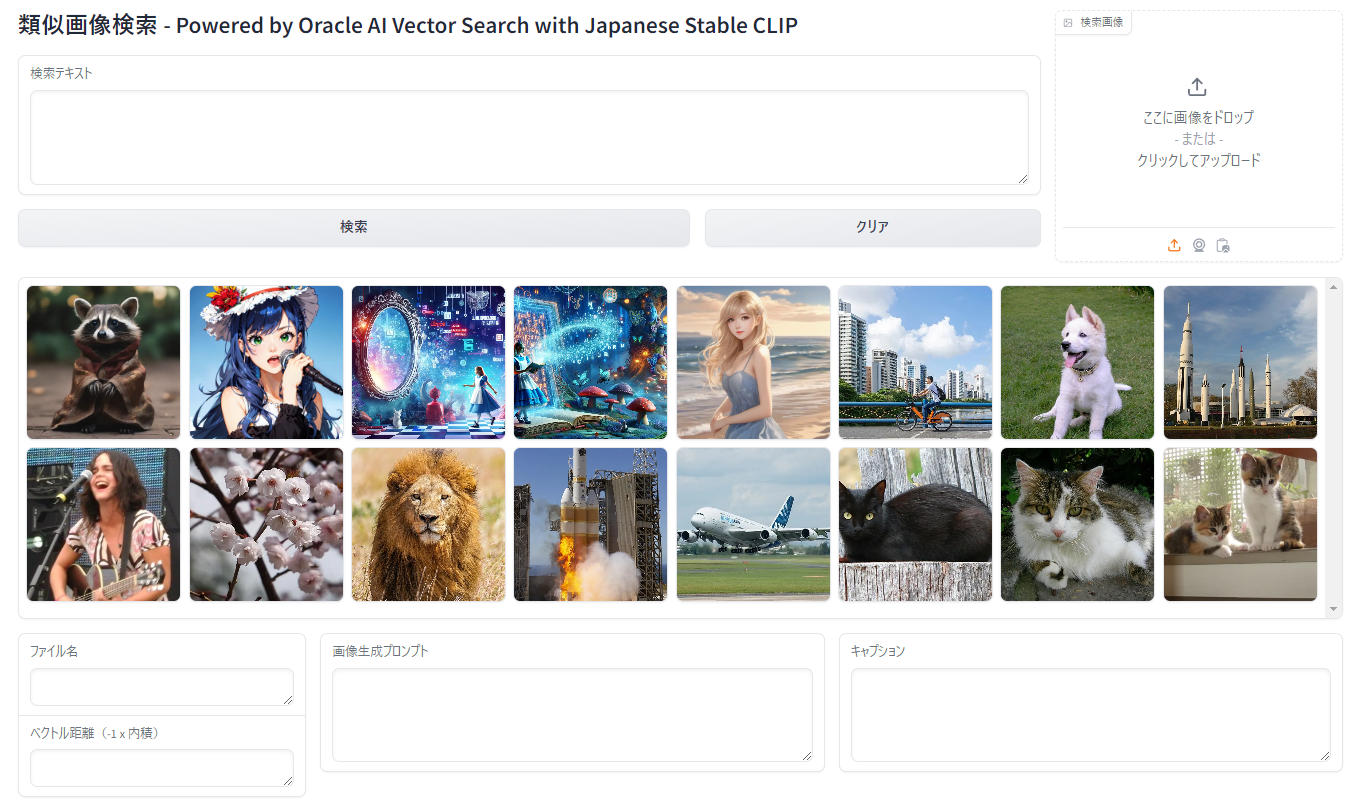
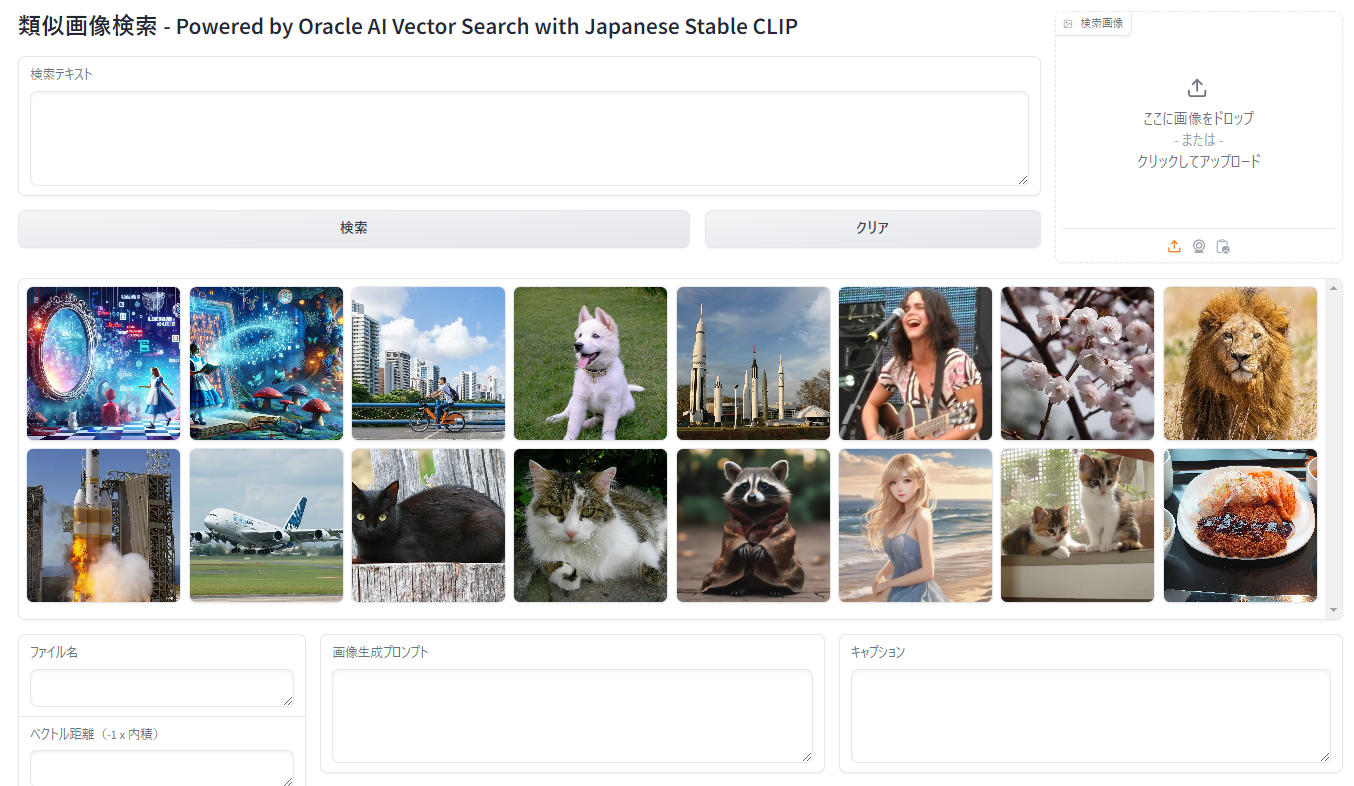
update README.md

diff --git a/README.md b/README.md
@@ -20,11 +20,14 @@
 - PNGファイルのテキストチャンク情報の抽出と保存
 - GPU の無い環境でも動作
 
-## 動作条件
+## 前提条件
 
 - Python 3.10以上
 - Oracle Database 23ai インスタンス
-- CPU上でも動作可能
+- CPU上でも動作可能（GPUがあればなお良い）
+- Hugging Face のアカウントがあること（[Hugging Face アカウント作成ページ](https://huggingface.co/join) で無料で登録することができます）
+- Hugging Face の User Access Token を取得していること（[Hugging Face User Access Token 作成ページ](https://huggingface.co/settings/tokens) で無料で取得できます。"Type" は、"READ"）
+- 動作は  OCI の VM.Standard3.Flex Compute Shape + Oracle Linux 8（CPUのみ） とローカルの Windows 11(CPUのみの場合とGPU利用の場合の両方) で確認しています。
 
 ## データベース環境のセットアップ
 1. データベースのインストール
@@ -110,36 +113,102 @@ JOIN CURRENT_EMBEDDING_MODEL cem ON ie.model_id = cem.model_id;
 
 ## 本アプリのインストール
 
-1. リポジトリをクローンします：
+データベースインスタンスが稼働しているサーバー（OCIコンピュートインスタンスなど）のローカルにインストールする場合以外は、本アプリケーションがネットワーク越しに Oracle Database のリスナーへアクセスできるよう Firewall 等の設定を行ってください（補足予定）。
 
-```
-git clone https://github.com/kutsushitaneko/image-similarity-search.git
-cd image-similarity-search
-```
+1. リポジトリをクローン：
 
-2. 仮想環境を作成し、アクティベートします：
+    git がインストールされていない場合は、以下のコマンドでインストールします。
+    ```
+    sudo dnf install git -y
+    ```
 
-```
-python -m venv .venv
-source .venv/bin/activate  # Windowsの場合: .venv\Scripts\activate
-```
+    リポジトリをクローンします。
+    ```
+    git clone https://github.com/kutsushitaneko/image-similarity-search.git
+    cd image-similarity-search
+    ```
+
+2. Python のバージョン確認  
+
+    次のコマンドで Python のバージョンを確認します。3.10 以上であることを確認してください。
+
+    ```
+    python --version
+    ```
+    3.10 よりも前のバージョンである場合は新しいバージョンをインストールします。以下は、Oracle Linux 8 に Python 3.11 をインストールする例です。
+
+    ```
+    sudo dnf update -y
+    sudo dnf install -y oracle-epel-release-el8
+    sudo dnf config-manager --set-enabled ol8_codeready_builder
+    sudo dnf install -y python3.11
+    python --version
+    ```
+
+2. （オプション）仮想環境の作成、アクティベート
+
+    複数バージョンの Python がインストールされているサーバーで Python 3.11 の仮想環境を作成する例
+    ```
+    python3.11 -m venv .venv
+    source .venv/bin/activate  # Windowsの場合: .venv\Scripts\activate
+    ```
 
 3. 必要なパッケージをインストールします：
 
-```
-pip install -r requirements.txt
-```
+    ```
+    pip install --upgrade pip
+    pip install -r requirements.txt
+    ```
 
 4. `.env`ファイルを作成し、以下の環境変数を設定します：
 
-your_username と your_password は、1-1 もしくは 1-2 で作成したデータベースにログインするためのユーザー名とパスワードです。
-your_database_dsn は、1-1 または 1-2 で設定したデータベースの接続情報です。
+    your_username と your_password は、1-1 もしくは 1-2 で作成したデータベースにログインするためのユーザー名とパスワードです。
+    your_database_dsn は、1-1 または 1-2 で設定したデータベースの接続情報です。
 
-```
-DB_USER=your_username
-DB_PASSWORD=your_password
-DB_DSN=your_database_dsn
-```
+    ```
+    DB_USER=your_username
+    DB_PASSWORD=your_password
+    DB_DSN=your_database_dsn
+    ```
+
+5. Hugging Face へログイン
+
+    Japanese Stable CLIP のモデルを使用するために、Hugging Face へログインします。
+
+    ```
+    huggingface-cli login
+    ```
+
+    Hugging Face のバナーが表示されてトークン（User Access Token）の入力を促されます。
+
+    ```
+    $ huggingface-cli login
+
+    _|    _|  _|    _|    _|_|_|    _|_|_|  _|_|_|  _|      _|    _|_|_|      _|_|_|_|    _|_|      _|_|_|  _|_|_|_|
+    _|    _|  _|    _|  _|        _|          _|    _|_|    _|  _|            _|        _|    _|  _|        _|
+    _|_|_|_|  _|    _|  _|  _|_|  _|  _|_|    _|    _|  _|  _|  _|  _|_|      _|_|_|    _|_|_|_|  _|        _|_|_|
+    _|    _|  _|    _|  _|    _|  _|    _|    _|    _|    _|_|  _|    _|      _|        _|    _|  _|        _|
+    _|    _|    _|_|      _|_|_|    _|_|_|  _|_|_|  _|      _|    _|_|_|      _|        _|    _|    _|_|_|  _|_|_|_|
+
+    To login, `huggingface_hub` requires a token generated from https://huggingface.co/settings/tokens .
+    Enter your token (input will not be visible):
+    ```
+
+    ここで Hugging Face のトークン（User Access Token）を入力します
+
+    ```
+    Add token as git credential? (Y/n)
+    ```
+
+    ここで、トークンを Git の認証情報として追加するかを選択します。どちらでも本アプリケーションの実行には影響ありません
+    トークンが正しければ次のように表示されます
+
+    ```
+    Token is valid (permission: read).
+    Your token has been saved to C:\Users\yujim\.cache\huggingface\token
+    Login successful
+    ```
+
 
 ## 使用方法
 
@@ -162,12 +231,12 @@ DB_DSN=your_database_dsn
 
 3. 検索システムの起動：
 
-    次の Python スクリプトを実行すると Gradio の UI が手元のブラウザに表示されます。
+    次の Python スクリプトで アプリケーションを起動します。ローカルで実行している場合は Gradio の UI が手元のブラウザに表示されます。
     ```
     python ImageSearch.py
     ```
 
-    自動的にブラウザが立ち上がらない場合は、ターミナルに表示されている `public URL` を手動でブラウザにコピーしてアクセスしてください。
+    OCI などのリモート環境などで自動的にブラウザが立ち上がらない場合は、ターミナルに表示されている `public URL` を手動でブラウザにコピーしてアクセスしてください。
 
     ```
     (.venv) ImageSearch $ python ImageSearch.py
@@ -179,14 +248,18 @@ DB_DSN=your_database_dsn
 
 ## 検索
 - 左上の「検索テキスト」エリアに検索テキストを入力して、「検索」ボタンを押すと、そのテキストに関連する画像が表示されます。
-![テキストによる画像検索（猫）](img\text_search_猫.jpg)
+![テキストによる画像検索（猫）](img\text_search_cat_jp.jpg)
 
+    別の条件で検索するには「クリア」ボタンを押して検索テキストをクリアします（検索ボタンが有効になります）。検索条件を指定せずに「検索ボタン」をクリックするとアップロード日付が新しい順に16枚の画像が表示されます。
     なお、ベクトル検索による類似性検索ですので、フィルタリングとは異なり無関係な画像も類似度が低い画像として表示されます。テキストとの類似性が高い画像が左上に表示され、右、下へいくほど類似度が低い画像となります。画像は類似度が高い順に16枚表示されます。
 - 右上の「検索画像」エリアに画像をアップロードして、「検索」ボタンを押すと、その画像に関連する画像が表示されます。
 
     こちらも同様にベクトル検索による類似性検索ですので、フィルタリングとは異なり無関係な画像も類似度が低い画像として表示されます。
+    ![画像による画像検索（猫）](img\text_search_cat_by_image.jpg)
 
 - 検索結果は中央のギャラリーエリアに表示されます。特定の画像をクリックして選択すると画像が拡大表示され、ギャラリーの下部にその画像の詳細が表示されます。
+
+    ![画像生成プロンプト](img\generation_prompt.jpg)
     - ファイル名
     - ベクトル距離
 
